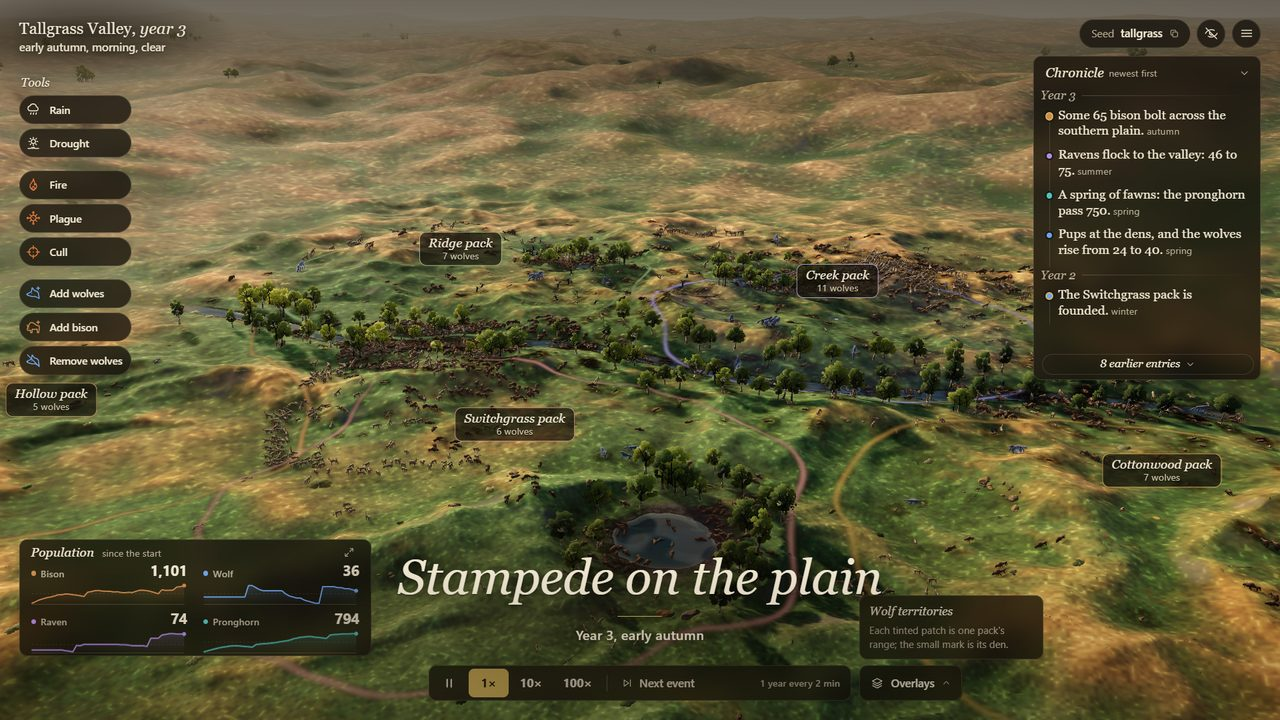
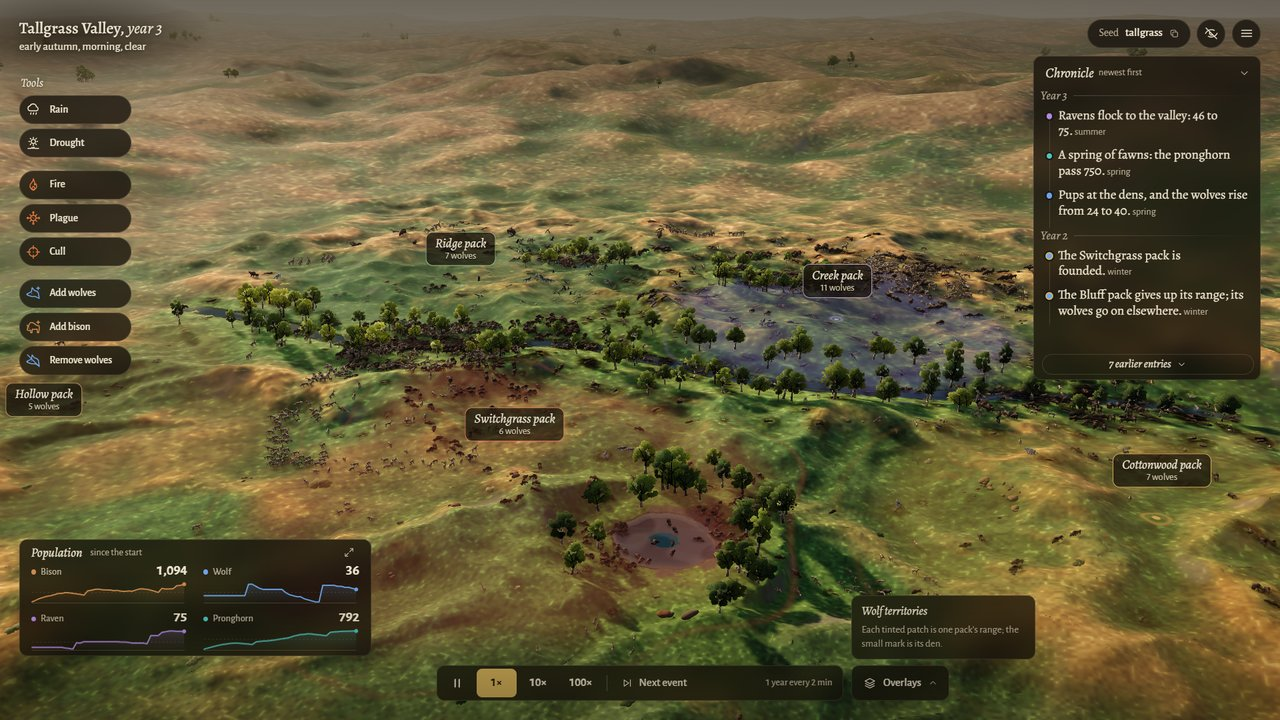
Landing draft: final-build winter and territories stills, tinted-range caption

diff --git a/landing/tallgrass.html b/landing/tallgrass.html
@@ -117,8 +117,8 @@ footer { padding-inline: clamp(16px, 4vw, 48px); padding-block: 28px 40px; max-w
 
   <section class="chapter flip" aria-labelledby="poke">
     <figure>
-      <img src="territories.jpg" alt="The game interface with the wolf territory overlay: named packs, their ranges drawn over the hills, and the chronicle" loading="lazy">
-      <figcaption>Wolf territories: each ring is one pack's range.</figcaption>
+      <img src="territories.jpg" alt="The game interface with the wolf territory overlay: named packs, their ranges tinted over the hills, and the chronicle" loading="lazy">
+      <figcaption>Wolf territories: each tinted patch is one pack's range.</figcaption>
     </figure>
     <div>
       <p class="kicker">Step in</p>

diff --git a/landing/template.html b/landing/template.html
@@ -117,8 +117,8 @@ footer { padding-inline: clamp(16px, 4vw, 48px); padding-block: 28px 40px; max-w
 
   <section class="chapter flip" aria-labelledby="poke">
     <figure>
-      <img src="territories.jpg" alt="The game interface with the wolf territory overlay: named packs, their ranges drawn over the hills, and the chronicle" loading="lazy">
-      <figcaption>Wolf territories: each ring is one pack's range.</figcaption>
+      <img src="territories.jpg" alt="The game interface with the wolf territory overlay: named packs, their ranges tinted over the hills, and the chronicle" loading="lazy">
+      <figcaption>Wolf territories: each tinted patch is one pack's range.</figcaption>
     </figure>
     <div>
       <p class="kicker">Step in</p>
